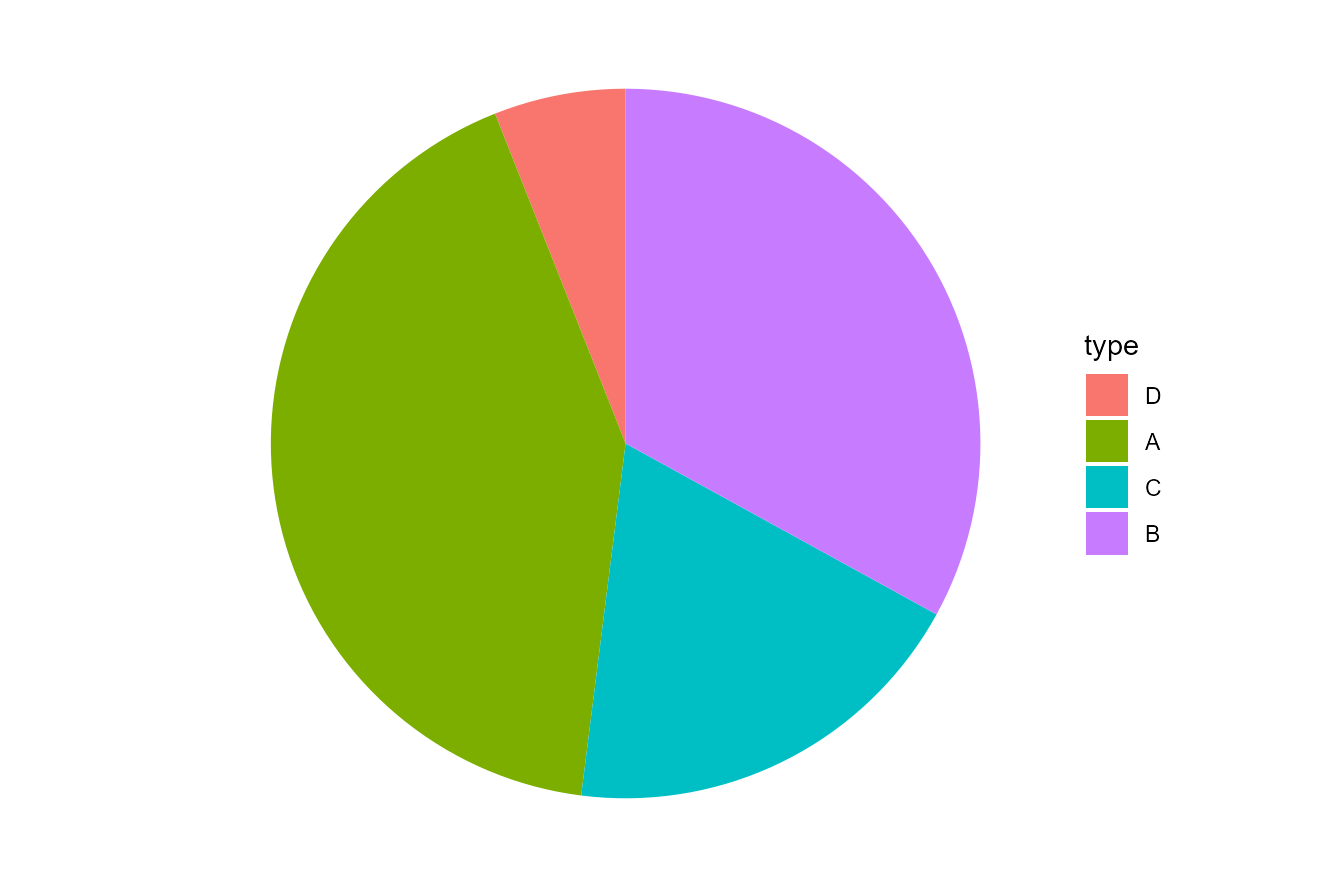
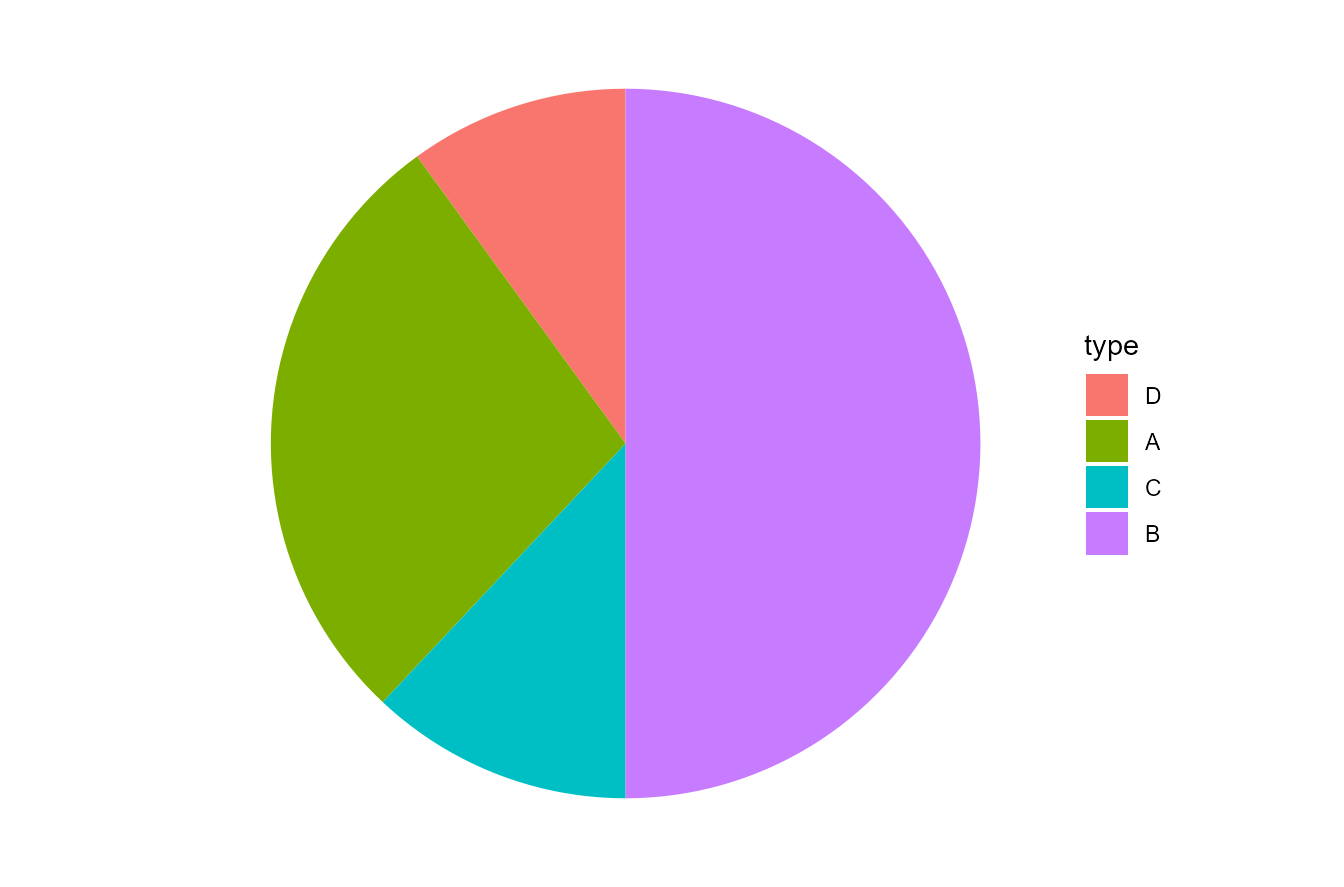
添加时间

Changed region(s): [[0.2812, 0.1218, 0.7188, 0.9132]]

diff --git a/_site/posts/甜甜圈图.html b/_site/posts/甜甜圈图.html
@@ -7,6 +7,7 @@
 <meta name="viewport" content="width=device-width, initial-scale=1.0, user-scalable=yes">
 
 <meta name="author" content="Bowen Qin">
+<meta name="dcterms.date" content="2024-07-05">
 
 <title>Bowen Qin - 如何绘制在甜甜圈图中添加注释</title>
 <style>
@@ -165,6 +166,12 @@ pre > code.sourceCode > span > a:first-child::before { text-decoration: underlin
             </div>
     </div>
       
+      <div>
+      <div class="quarto-title-meta-heading">Published</div>
+      <div class="quarto-title-meta-contents">
+        <p class="date">July 5, 2024</p>
+      </div>
+    </div>
     
       
     </div>
@@ -319,10 +326,10 @@ Figure&nbsp;3: 区间端点的位置
 <pre><code># A tibble: 4 × 5
   type      n  prop cum_prop   mid
   &lt;fct&gt; &lt;int&gt; &lt;dbl&gt;    &lt;dbl&gt; &lt;dbl&gt;
-1 B        33  0.33     0.33 0.165
-2 C        19  0.19     0.52 0.425
-3 A        42  0.42     0.94 0.73 
-4 D         6  0.06     1    0.97 </code></pre>
+1 B        50  0.5      0.5   0.25
+2 C        12  0.12     0.62  0.56
+3 A        28  0.28     0.9   0.76
+4 D        10  0.1      1     0.95</code></pre>
 </div>
 </div>
 <p>最后将注释放在区间的中点即可。</p>
@@ -960,117 +967,118 @@ window.document.addEventListener("DOMContentLoaded", function (event) {
 <div class="sourceCode" id="cb7" data-shortcodes="false"><pre class="sourceCode markdown code-with-copy"><code class="sourceCode markdown"><span id="cb7-1"><a href="#cb7-1" aria-hidden="true" tabindex="-1"></a><span class="co">---</span></span>
 <span id="cb7-2"><a href="#cb7-2" aria-hidden="true" tabindex="-1"></a><span class="an">title:</span><span class="co"> 如何绘制在甜甜圈图中添加注释</span></span>
 <span id="cb7-3"><a href="#cb7-3" aria-hidden="true" tabindex="-1"></a><span class="an">category:</span><span class="co"> "ggplot2"</span></span>
-<span id="cb7-4"><a href="#cb7-4" aria-hidden="true" tabindex="-1"></a><span class="co">---</span></span>
-<span id="cb7-5"><a href="#cb7-5" aria-hidden="true" tabindex="-1"></a></span>
-<span id="cb7-8"><a href="#cb7-8" aria-hidden="true" tabindex="-1"></a><span class="in">```{r}</span></span>
-<span id="cb7-9"><a href="#cb7-9" aria-hidden="true" tabindex="-1"></a><span class="co">#| label: setup</span></span>
-<span id="cb7-10"><a href="#cb7-10" aria-hidden="true" tabindex="-1"></a><span class="co">#| message: false</span></span>
-<span id="cb7-11"><a href="#cb7-11" aria-hidden="true" tabindex="-1"></a></span>
-<span id="cb7-12"><a href="#cb7-12" aria-hidden="true" tabindex="-1"></a><span class="fu">library</span>(tidyverse)</span>
-<span id="cb7-13"><a href="#cb7-13" aria-hidden="true" tabindex="-1"></a><span class="fu">theme_set</span>(hrbrthemes<span class="sc">::</span><span class="fu">theme_ipsum_rc</span>())</span>
-<span id="cb7-14"><a href="#cb7-14" aria-hidden="true" tabindex="-1"></a></span>
-<span id="cb7-15"><a href="#cb7-15" aria-hidden="true" tabindex="-1"></a>dt <span class="ot">&lt;-</span> <span class="fu">tibble</span>(</span>
-<span id="cb7-16"><a href="#cb7-16" aria-hidden="true" tabindex="-1"></a>  <span class="at">type =</span> <span class="fu">sample</span>(<span class="fu">c</span>(<span class="st">"A"</span>, <span class="st">"B"</span>, <span class="st">"C"</span>, <span class="st">"D"</span>), <span class="at">size =</span> <span class="dv">100</span>, <span class="at">replace =</span> <span class="cn">TRUE</span>, <span class="at">prob =</span> <span class="fu">c</span>(<span class="fl">0.3</span>, <span class="fl">0.4</span>, <span class="fl">0.2</span>, <span class="fl">0.1</span>))</span>
-<span id="cb7-17"><a href="#cb7-17" aria-hidden="true" tabindex="-1"></a>  ) <span class="sc">%&gt;%</span> </span>
-<span id="cb7-18"><a href="#cb7-18" aria-hidden="true" tabindex="-1"></a>  <span class="co"># 设置因子的排序</span></span>
-<span id="cb7-19"><a href="#cb7-19" aria-hidden="true" tabindex="-1"></a>  <span class="fu">mutate</span>(<span class="at">type =</span> <span class="fu">factor</span>(type, <span class="fu">c</span>(<span class="st">"D"</span>, <span class="st">"A"</span>, <span class="st">"C"</span>, <span class="st">"B"</span>))) <span class="sc">%&gt;%</span> </span>
-<span id="cb7-20"><a href="#cb7-20" aria-hidden="true" tabindex="-1"></a>  <span class="fu">count</span>(type) <span class="sc">%&gt;%</span> </span>
-<span id="cb7-21"><a href="#cb7-21" aria-hidden="true" tabindex="-1"></a>  <span class="fu">mutate</span>(<span class="at">prop =</span> n <span class="sc">/</span> <span class="fu">sum</span>(n))</span>
-<span id="cb7-22"><a href="#cb7-22" aria-hidden="true" tabindex="-1"></a><span class="in">```</span></span>
-<span id="cb7-23"><a href="#cb7-23" aria-hidden="true" tabindex="-1"></a></span>
-<span id="cb7-24"><a href="#cb7-24" aria-hidden="true" tabindex="-1"></a>甜甜圈图和扇形图常用来刻画各部分在整体中的占比，<span class="in">`ggplot2`</span>的<span class="in">`coord_radial`</span>绘制甜甜圈图非常方便。甜甜圈图中是通过角度来表示大小，而人眼不擅长比较角度的大小。从下面可以清楚的看出这一点：</span>
-<span id="cb7-25"><a href="#cb7-25" aria-hidden="true" tabindex="-1"></a></span>
-<span id="cb7-28"><a href="#cb7-28" aria-hidden="true" tabindex="-1"></a><span class="in">```{r}</span></span>
-<span id="cb7-29"><a href="#cb7-29" aria-hidden="true" tabindex="-1"></a><span class="co">#| layout-ncol: 2</span></span>
-<span id="cb7-30"><a href="#cb7-30" aria-hidden="true" tabindex="-1"></a><span class="co">#| label: fig-对比</span></span>
-<span id="cb7-31"><a href="#cb7-31" aria-hidden="true" tabindex="-1"></a><span class="co">#| fig-cap: 甜甜圈图 vs 条形图</span></span>
-<span id="cb7-32"><a href="#cb7-32" aria-hidden="true" tabindex="-1"></a><span class="co">#| fig-subcap: </span></span>
-<span id="cb7-33"><a href="#cb7-33" aria-hidden="true" tabindex="-1"></a><span class="co">#|   - 条形图</span></span>
-<span id="cb7-34"><a href="#cb7-34" aria-hidden="true" tabindex="-1"></a><span class="co">#|   - 甜甜圈图</span></span>
-<span id="cb7-35"><a href="#cb7-35" aria-hidden="true" tabindex="-1"></a>dt <span class="sc">%&gt;%</span> </span>
-<span id="cb7-36"><a href="#cb7-36" aria-hidden="true" tabindex="-1"></a>  <span class="fu">ggplot</span>(<span class="fu">aes</span>(<span class="at">x =</span> type, <span class="at">y =</span> prop, <span class="at">fill =</span> type)) <span class="sc">+</span></span>
-<span id="cb7-37"><a href="#cb7-37" aria-hidden="true" tabindex="-1"></a>  <span class="fu">geom_col</span>(<span class="at">show.legend =</span> <span class="cn">FALSE</span>)</span>
-<span id="cb7-38"><a href="#cb7-38" aria-hidden="true" tabindex="-1"></a></span>
-<span id="cb7-39"><a href="#cb7-39" aria-hidden="true" tabindex="-1"></a>dt <span class="sc">%&gt;%</span> </span>
-<span id="cb7-40"><a href="#cb7-40" aria-hidden="true" tabindex="-1"></a>  <span class="fu">ggplot</span>(<span class="fu">aes</span>(<span class="at">y =</span> <span class="fu">factor</span>(<span class="dv">1</span>), <span class="at">x =</span> prop, <span class="at">fill =</span> type)) <span class="sc">+</span></span>
-<span id="cb7-41"><a href="#cb7-41" aria-hidden="true" tabindex="-1"></a>  <span class="fu">geom_col</span>() <span class="sc">+</span></span>
-<span id="cb7-42"><a href="#cb7-42" aria-hidden="true" tabindex="-1"></a>  <span class="fu">coord_radial</span>(<span class="at">expand =</span> <span class="cn">FALSE</span>, <span class="at">inner.radius =</span> <span class="fl">0.4</span>) <span class="sc">+</span></span>
-<span id="cb7-43"><a href="#cb7-43" aria-hidden="true" tabindex="-1"></a>  <span class="fu">theme_void</span>()</span>
-<span id="cb7-44"><a href="#cb7-44" aria-hidden="true" tabindex="-1"></a><span class="in">```</span></span>
-<span id="cb7-45"><a href="#cb7-45" aria-hidden="true" tabindex="-1"></a></span>
-<span id="cb7-46"><a href="#cb7-46" aria-hidden="true" tabindex="-1"></a>@fig-对比-1 中可以从柱子的高度中看出A所占的比重大于B，@fig-对比-2 中则很难看出A和B谁占的比重大。</span>
-<span id="cb7-47"><a href="#cb7-47" aria-hidden="true" tabindex="-1"></a></span>
-<span id="cb7-48"><a href="#cb7-48" aria-hidden="true" tabindex="-1"></a>所以甜甜圈图和扇形图需要加上注释，表明各部分的占比，加注释需要提供注释的位置，一般大家都希望把注释放在扇形的中间，怎么确定每个扇形中间的位置呢？先了解以下<span class="in">`coord_radial()`</span>的原理。</span>
-<span id="cb7-49"><a href="#cb7-49" aria-hidden="true" tabindex="-1"></a></span>
-<span id="cb7-52"><a href="#cb7-52" aria-hidden="true" tabindex="-1"></a><span class="in">```{r}</span></span>
-<span id="cb7-53"><a href="#cb7-53" aria-hidden="true" tabindex="-1"></a><span class="co">#| label: fig-coord_radial的原理</span></span>
-<span id="cb7-54"><a href="#cb7-54" aria-hidden="true" tabindex="-1"></a><span class="co">#| layout-ncol: 2</span></span>
-<span id="cb7-55"><a href="#cb7-55" aria-hidden="true" tabindex="-1"></a><span class="co">#| fig-cap: coord_radial的原理</span></span>
-<span id="cb7-56"><a href="#cb7-56" aria-hidden="true" tabindex="-1"></a><span class="co">#| fig-subcap:</span></span>
-<span id="cb7-57"><a href="#cb7-57" aria-hidden="true" tabindex="-1"></a><span class="co">#| - 普通柱状图</span></span>
-<span id="cb7-58"><a href="#cb7-58" aria-hidden="true" tabindex="-1"></a><span class="co">#| - coord_radial</span></span>
-<span id="cb7-59"><a href="#cb7-59" aria-hidden="true" tabindex="-1"></a>p <span class="ot">&lt;-</span> dt <span class="sc">%&gt;%</span> </span>
-<span id="cb7-60"><a href="#cb7-60" aria-hidden="true" tabindex="-1"></a>  <span class="fu">ggplot</span>(<span class="fu">aes</span>(<span class="at">y =</span> <span class="fu">factor</span>(<span class="dv">1</span>), <span class="at">x =</span> prop, <span class="at">fill =</span> type)) <span class="sc">+</span></span>
-<span id="cb7-61"><a href="#cb7-61" aria-hidden="true" tabindex="-1"></a>  <span class="fu">geom_col</span>() <span class="sc">+</span></span>
-<span id="cb7-62"><a href="#cb7-62" aria-hidden="true" tabindex="-1"></a>  <span class="fu">theme_void</span>()</span>
-<span id="cb7-63"><a href="#cb7-63" aria-hidden="true" tabindex="-1"></a></span>
-<span id="cb7-64"><a href="#cb7-64" aria-hidden="true" tabindex="-1"></a>p</span>
-<span id="cb7-65"><a href="#cb7-65" aria-hidden="true" tabindex="-1"></a>p <span class="sc">+</span> </span>
-<span id="cb7-66"><a href="#cb7-66" aria-hidden="true" tabindex="-1"></a>  <span class="fu">coord_radial</span>(<span class="at">theta =</span> <span class="st">"x"</span>,</span>
-<span id="cb7-67"><a href="#cb7-67" aria-hidden="true" tabindex="-1"></a>               <span class="at">expand =</span> <span class="cn">FALSE</span>)</span>
-<span id="cb7-68"><a href="#cb7-68" aria-hidden="true" tabindex="-1"></a><span class="in">```</span></span>
-<span id="cb7-69"><a href="#cb7-69" aria-hidden="true" tabindex="-1"></a></span>
-<span id="cb7-70"><a href="#cb7-70" aria-hidden="true" tabindex="-1"></a><span class="in">`coord_radial`</span>就是将某条坐标轴卷起来，将 @fig-coord_radial的原理-1 沿着x轴卷起来就得到了 @fig-coord_radial的原理-2 。</span>
-<span id="cb7-71"><a href="#cb7-71" aria-hidden="true" tabindex="-1"></a></span>
-<span id="cb7-72"><a href="#cb7-72" aria-hidden="true" tabindex="-1"></a>所以要确定扇形中间的位置，只需要确定 @fig-coord_radial的原理-1 中每个颜色区间的中点，而颜色区间的中点等于该颜色区间两个端点相加除以二，所以我们只需要确定每个颜色区间端点的位置。</span>
-<span id="cb7-73"><a href="#cb7-73" aria-hidden="true" tabindex="-1"></a></span>
-<span id="cb7-76"><a href="#cb7-76" aria-hidden="true" tabindex="-1"></a><span class="in">```{r}</span></span>
-<span id="cb7-77"><a href="#cb7-77" aria-hidden="true" tabindex="-1"></a><span class="co">#| echo: false</span></span>
-<span id="cb7-78"><a href="#cb7-78" aria-hidden="true" tabindex="-1"></a><span class="co">#| label: fig-区间端点的位置</span></span>
-<span id="cb7-79"><a href="#cb7-79" aria-hidden="true" tabindex="-1"></a><span class="co">#| fig-cap: 区间端点的位置</span></span>
-<span id="cb7-80"><a href="#cb7-80" aria-hidden="true" tabindex="-1"></a>ddd <span class="ot">&lt;-</span> dt <span class="sc">%&gt;%</span> </span>
-<span id="cb7-81"><a href="#cb7-81" aria-hidden="true" tabindex="-1"></a>  <span class="fu">arrange</span>(<span class="fu">desc</span>(type)) <span class="sc">%&gt;%</span> </span>
-<span id="cb7-82"><a href="#cb7-82" aria-hidden="true" tabindex="-1"></a>  <span class="fu">mutate</span>(<span class="at">cum_prop =</span> <span class="fu">cumsum</span>(prop),</span>
-<span id="cb7-83"><a href="#cb7-83" aria-hidden="true" tabindex="-1"></a>         <span class="at">pos =</span> slider<span class="sc">::</span><span class="fu">slide_dbl</span>(cum_prop, mean, <span class="at">.before =</span> <span class="dv">1</span>, <span class="at">.complete =</span> <span class="cn">TRUE</span>),</span>
-<span id="cb7-84"><a href="#cb7-84" aria-hidden="true" tabindex="-1"></a>         <span class="at">pos =</span> <span class="fu">if_else</span>(<span class="fu">is.na</span>(pos), cum_prop<span class="sc">/</span><span class="dv">2</span>, pos))</span>
-<span id="cb7-85"><a href="#cb7-85" aria-hidden="true" tabindex="-1"></a></span>
-<span id="cb7-86"><a href="#cb7-86" aria-hidden="true" tabindex="-1"></a>ddd <span class="sc">%&gt;%</span> </span>
-<span id="cb7-87"><a href="#cb7-87" aria-hidden="true" tabindex="-1"></a>  <span class="fu">ggplot</span>(<span class="fu">aes</span>(<span class="at">y =</span> <span class="fu">factor</span>(<span class="dv">1</span>), <span class="at">x =</span> prop, <span class="at">fill =</span> type)) <span class="sc">+</span></span>
-<span id="cb7-88"><a href="#cb7-88" aria-hidden="true" tabindex="-1"></a>  <span class="fu">geom_col</span>() <span class="sc">+</span></span>
-<span id="cb7-89"><a href="#cb7-89" aria-hidden="true" tabindex="-1"></a>  <span class="fu">geom_vline</span>(<span class="fu">aes</span>(<span class="at">xintercept =</span> cum_prop), <span class="at">lty =</span> <span class="dv">2</span>, <span class="at">linewidth =</span> <span class="dv">1</span>) <span class="sc">+</span></span>
-<span id="cb7-90"><a href="#cb7-90" aria-hidden="true" tabindex="-1"></a>  <span class="fu">geom_vline</span>(<span class="at">xintercept =</span> <span class="dv">0</span>, <span class="at">lty =</span> <span class="dv">2</span>, <span class="at">linewidth =</span> <span class="dv">1</span>) <span class="sc">+</span></span>
-<span id="cb7-91"><a href="#cb7-91" aria-hidden="true" tabindex="-1"></a>  <span class="fu">geom_text</span>(<span class="fu">aes</span>(<span class="at">label =</span> prop, <span class="at">x =</span> pos)) <span class="sc">+</span></span>
-<span id="cb7-92"><a href="#cb7-92" aria-hidden="true" tabindex="-1"></a>  <span class="fu">scale_x_continuous</span>(<span class="at">breaks =</span> <span class="fu">c</span>(<span class="dv">0</span>, ddd<span class="sc">$</span>cum_prop))</span>
-<span id="cb7-93"><a href="#cb7-93" aria-hidden="true" tabindex="-1"></a><span class="in">```</span></span>
-<span id="cb7-94"><a href="#cb7-94" aria-hidden="true" tabindex="-1"></a></span>
-<span id="cb7-95"><a href="#cb7-95" aria-hidden="true" tabindex="-1"></a>区间的端点由每种因子所占的比重依次相加得到，而注释的横坐标就是区间的中点。</span>
-<span id="cb7-96"><a href="#cb7-96" aria-hidden="true" tabindex="-1"></a></span>
-<span id="cb7-99"><a href="#cb7-99" aria-hidden="true" tabindex="-1"></a><span class="in">```{r}</span></span>
-<span id="cb7-100"><a href="#cb7-100" aria-hidden="true" tabindex="-1"></a>dt_plot <span class="ot">&lt;-</span> dt <span class="sc">%&gt;%</span> </span>
-<span id="cb7-101"><a href="#cb7-101" aria-hidden="true" tabindex="-1"></a>  <span class="co"># 先按因子变量将数据倒序排列，因为ggplot默认倒序</span></span>
-<span id="cb7-102"><a href="#cb7-102" aria-hidden="true" tabindex="-1"></a>  <span class="fu">arrange</span>(<span class="fu">desc</span>(type)) <span class="sc">%&gt;%</span> </span>
-<span id="cb7-103"><a href="#cb7-103" aria-hidden="true" tabindex="-1"></a>  <span class="fu">mutate</span>(</span>
-<span id="cb7-104"><a href="#cb7-104" aria-hidden="true" tabindex="-1"></a>    <span class="co"># 将占比依次相加得到区间端点</span></span>
-<span id="cb7-105"><a href="#cb7-105" aria-hidden="true" tabindex="-1"></a>    <span class="at">cum_prop =</span> <span class="fu">cumsum</span>(prop),</span>
-<span id="cb7-106"><a href="#cb7-106" aria-hidden="true" tabindex="-1"></a>    <span class="co"># 计算区间的中点</span></span>
-<span id="cb7-107"><a href="#cb7-107" aria-hidden="true" tabindex="-1"></a>    <span class="at">mid =</span> slider<span class="sc">::</span><span class="fu">slide_dbl</span>(cum_prop, mean, <span class="at">.before =</span> <span class="dv">1</span>, <span class="at">.complete =</span> <span class="cn">TRUE</span>),</span>
-<span id="cb7-108"><a href="#cb7-108" aria-hidden="true" tabindex="-1"></a>    <span class="at">mid =</span> <span class="fu">if_else</span>(<span class="fu">is.na</span>(mid), cum_prop<span class="sc">/</span><span class="dv">2</span>, mid)</span>
-<span id="cb7-109"><a href="#cb7-109" aria-hidden="true" tabindex="-1"></a>  )</span>
-<span id="cb7-110"><a href="#cb7-110" aria-hidden="true" tabindex="-1"></a>dt_plot</span>
-<span id="cb7-111"><a href="#cb7-111" aria-hidden="true" tabindex="-1"></a><span class="in">```</span></span>
-<span id="cb7-112"><a href="#cb7-112" aria-hidden="true" tabindex="-1"></a></span>
-<span id="cb7-113"><a href="#cb7-113" aria-hidden="true" tabindex="-1"></a>最后将注释放在区间的中点即可。</span>
-<span id="cb7-114"><a href="#cb7-114" aria-hidden="true" tabindex="-1"></a></span>
-<span id="cb7-117"><a href="#cb7-117" aria-hidden="true" tabindex="-1"></a><span class="in">```{r}</span></span>
-<span id="cb7-118"><a href="#cb7-118" aria-hidden="true" tabindex="-1"></a>dt_plot <span class="sc">%&gt;%</span> </span>
-<span id="cb7-119"><a href="#cb7-119" aria-hidden="true" tabindex="-1"></a>  <span class="fu">ggplot</span>(<span class="fu">aes</span>(<span class="at">y =</span> <span class="fu">factor</span>(<span class="dv">1</span>), <span class="at">x =</span> prop, <span class="at">fill =</span> type)) <span class="sc">+</span></span>
-<span id="cb7-120"><a href="#cb7-120" aria-hidden="true" tabindex="-1"></a>  <span class="fu">geom_col</span>(<span class="at">show.legend =</span> <span class="cn">FALSE</span>) <span class="sc">+</span></span>
-<span id="cb7-121"><a href="#cb7-121" aria-hidden="true" tabindex="-1"></a>  <span class="fu">geom_text</span>(<span class="fu">aes</span>(<span class="at">label =</span> prop, <span class="at">x =</span> mid, <span class="at">y =</span> <span class="dv">1</span>), <span class="at">fontface =</span> <span class="st">"bold"</span>) <span class="sc">+</span></span>
-<span id="cb7-122"><a href="#cb7-122" aria-hidden="true" tabindex="-1"></a>  <span class="fu">geom_text</span>(<span class="fu">aes</span>(<span class="at">x =</span> mid, <span class="at">y =</span> <span class="fl">1.6</span>, <span class="at">label =</span> type)) <span class="sc">+</span></span>
-<span id="cb7-123"><a href="#cb7-123" aria-hidden="true" tabindex="-1"></a>  <span class="fu">scale_x_continuous</span>(<span class="at">breaks =</span> <span class="fu">c</span>(<span class="dv">0</span>, ddd<span class="sc">$</span>cum_prop)) <span class="sc">+</span></span>
-<span id="cb7-124"><a href="#cb7-124" aria-hidden="true" tabindex="-1"></a>  <span class="fu">coord_radial</span>(<span class="at">expand =</span> <span class="cn">FALSE</span>, <span class="at">inner.radius =</span> <span class="fl">0.4</span>) <span class="sc">+</span></span>
-<span id="cb7-125"><a href="#cb7-125" aria-hidden="true" tabindex="-1"></a>  <span class="fu">theme_void</span>()</span>
-<span id="cb7-126"><a href="#cb7-126" aria-hidden="true" tabindex="-1"></a><span class="in">```</span></span>
+<span id="cb7-4"><a href="#cb7-4" aria-hidden="true" tabindex="-1"></a><span class="an">date:</span><span class="co"> "2024-07-05"</span></span>
+<span id="cb7-5"><a href="#cb7-5" aria-hidden="true" tabindex="-1"></a><span class="co">---</span></span>
+<span id="cb7-6"><a href="#cb7-6" aria-hidden="true" tabindex="-1"></a></span>
+<span id="cb7-9"><a href="#cb7-9" aria-hidden="true" tabindex="-1"></a><span class="in">```{r}</span></span>
+<span id="cb7-10"><a href="#cb7-10" aria-hidden="true" tabindex="-1"></a><span class="co">#| label: setup</span></span>
+<span id="cb7-11"><a href="#cb7-11" aria-hidden="true" tabindex="-1"></a><span class="co">#| message: false</span></span>
+<span id="cb7-12"><a href="#cb7-12" aria-hidden="true" tabindex="-1"></a></span>
+<span id="cb7-13"><a href="#cb7-13" aria-hidden="true" tabindex="-1"></a><span class="fu">library</span>(tidyverse)</span>
+<span id="cb7-14"><a href="#cb7-14" aria-hidden="true" tabindex="-1"></a><span class="fu">theme_set</span>(hrbrthemes<span class="sc">::</span><span class="fu">theme_ipsum_rc</span>())</span>
+<span id="cb7-15"><a href="#cb7-15" aria-hidden="true" tabindex="-1"></a></span>
+<span id="cb7-16"><a href="#cb7-16" aria-hidden="true" tabindex="-1"></a>dt <span class="ot">&lt;-</span> <span class="fu">tibble</span>(</span>
+<span id="cb7-17"><a href="#cb7-17" aria-hidden="true" tabindex="-1"></a>  <span class="at">type =</span> <span class="fu">sample</span>(<span class="fu">c</span>(<span class="st">"A"</span>, <span class="st">"B"</span>, <span class="st">"C"</span>, <span class="st">"D"</span>), <span class="at">size =</span> <span class="dv">100</span>, <span class="at">replace =</span> <span class="cn">TRUE</span>, <span class="at">prob =</span> <span class="fu">c</span>(<span class="fl">0.3</span>, <span class="fl">0.4</span>, <span class="fl">0.2</span>, <span class="fl">0.1</span>))</span>
+<span id="cb7-18"><a href="#cb7-18" aria-hidden="true" tabindex="-1"></a>  ) <span class="sc">%&gt;%</span> </span>
+<span id="cb7-19"><a href="#cb7-19" aria-hidden="true" tabindex="-1"></a>  <span class="co"># 设置因子的排序</span></span>
+<span id="cb7-20"><a href="#cb7-20" aria-hidden="true" tabindex="-1"></a>  <span class="fu">mutate</span>(<span class="at">type =</span> <span class="fu">factor</span>(type, <span class="fu">c</span>(<span class="st">"D"</span>, <span class="st">"A"</span>, <span class="st">"C"</span>, <span class="st">"B"</span>))) <span class="sc">%&gt;%</span> </span>
+<span id="cb7-21"><a href="#cb7-21" aria-hidden="true" tabindex="-1"></a>  <span class="fu">count</span>(type) <span class="sc">%&gt;%</span> </span>
+<span id="cb7-22"><a href="#cb7-22" aria-hidden="true" tabindex="-1"></a>  <span class="fu">mutate</span>(<span class="at">prop =</span> n <span class="sc">/</span> <span class="fu">sum</span>(n))</span>
+<span id="cb7-23"><a href="#cb7-23" aria-hidden="true" tabindex="-1"></a><span class="in">```</span></span>
+<span id="cb7-24"><a href="#cb7-24" aria-hidden="true" tabindex="-1"></a></span>
+<span id="cb7-25"><a href="#cb7-25" aria-hidden="true" tabindex="-1"></a>甜甜圈图和扇形图常用来刻画各部分在整体中的占比，<span class="in">`ggplot2`</span>的<span class="in">`coord_radial`</span>绘制甜甜圈图非常方便。甜甜圈图中是通过角度来表示大小，而人眼不擅长比较角度的大小。从下面可以清楚的看出这一点：</span>
+<span id="cb7-26"><a href="#cb7-26" aria-hidden="true" tabindex="-1"></a></span>
+<span id="cb7-29"><a href="#cb7-29" aria-hidden="true" tabindex="-1"></a><span class="in">```{r}</span></span>
+<span id="cb7-30"><a href="#cb7-30" aria-hidden="true" tabindex="-1"></a><span class="co">#| layout-ncol: 2</span></span>
+<span id="cb7-31"><a href="#cb7-31" aria-hidden="true" tabindex="-1"></a><span class="co">#| label: fig-对比</span></span>
+<span id="cb7-32"><a href="#cb7-32" aria-hidden="true" tabindex="-1"></a><span class="co">#| fig-cap: 甜甜圈图 vs 条形图</span></span>
+<span id="cb7-33"><a href="#cb7-33" aria-hidden="true" tabindex="-1"></a><span class="co">#| fig-subcap: </span></span>
+<span id="cb7-34"><a href="#cb7-34" aria-hidden="true" tabindex="-1"></a><span class="co">#|   - 条形图</span></span>
+<span id="cb7-35"><a href="#cb7-35" aria-hidden="true" tabindex="-1"></a><span class="co">#|   - 甜甜圈图</span></span>
+<span id="cb7-36"><a href="#cb7-36" aria-hidden="true" tabindex="-1"></a>dt <span class="sc">%&gt;%</span> </span>
+<span id="cb7-37"><a href="#cb7-37" aria-hidden="true" tabindex="-1"></a>  <span class="fu">ggplot</span>(<span class="fu">aes</span>(<span class="at">x =</span> type, <span class="at">y =</span> prop, <span class="at">fill =</span> type)) <span class="sc">+</span></span>
+<span id="cb7-38"><a href="#cb7-38" aria-hidden="true" tabindex="-1"></a>  <span class="fu">geom_col</span>(<span class="at">show.legend =</span> <span class="cn">FALSE</span>)</span>
+<span id="cb7-39"><a href="#cb7-39" aria-hidden="true" tabindex="-1"></a></span>
+<span id="cb7-40"><a href="#cb7-40" aria-hidden="true" tabindex="-1"></a>dt <span class="sc">%&gt;%</span> </span>
+<span id="cb7-41"><a href="#cb7-41" aria-hidden="true" tabindex="-1"></a>  <span class="fu">ggplot</span>(<span class="fu">aes</span>(<span class="at">y =</span> <span class="fu">factor</span>(<span class="dv">1</span>), <span class="at">x =</span> prop, <span class="at">fill =</span> type)) <span class="sc">+</span></span>
+<span id="cb7-42"><a href="#cb7-42" aria-hidden="true" tabindex="-1"></a>  <span class="fu">geom_col</span>() <span class="sc">+</span></span>
+<span id="cb7-43"><a href="#cb7-43" aria-hidden="true" tabindex="-1"></a>  <span class="fu">coord_radial</span>(<span class="at">expand =</span> <span class="cn">FALSE</span>, <span class="at">inner.radius =</span> <span class="fl">0.4</span>) <span class="sc">+</span></span>
+<span id="cb7-44"><a href="#cb7-44" aria-hidden="true" tabindex="-1"></a>  <span class="fu">theme_void</span>()</span>
+<span id="cb7-45"><a href="#cb7-45" aria-hidden="true" tabindex="-1"></a><span class="in">```</span></span>
+<span id="cb7-46"><a href="#cb7-46" aria-hidden="true" tabindex="-1"></a></span>
+<span id="cb7-47"><a href="#cb7-47" aria-hidden="true" tabindex="-1"></a>@fig-对比-1 中可以从柱子的高度中看出A所占的比重大于B，@fig-对比-2 中则很难看出A和B谁占的比重大。</span>
+<span id="cb7-48"><a href="#cb7-48" aria-hidden="true" tabindex="-1"></a></span>
+<span id="cb7-49"><a href="#cb7-49" aria-hidden="true" tabindex="-1"></a>所以甜甜圈图和扇形图需要加上注释，表明各部分的占比，加注释需要提供注释的位置，一般大家都希望把注释放在扇形的中间，怎么确定每个扇形中间的位置呢？先了解以下<span class="in">`coord_radial()`</span>的原理。</span>
+<span id="cb7-50"><a href="#cb7-50" aria-hidden="true" tabindex="-1"></a></span>
+<span id="cb7-53"><a href="#cb7-53" aria-hidden="true" tabindex="-1"></a><span class="in">```{r}</span></span>
+<span id="cb7-54"><a href="#cb7-54" aria-hidden="true" tabindex="-1"></a><span class="co">#| label: fig-coord_radial的原理</span></span>
+<span id="cb7-55"><a href="#cb7-55" aria-hidden="true" tabindex="-1"></a><span class="co">#| layout-ncol: 2</span></span>
+<span id="cb7-56"><a href="#cb7-56" aria-hidden="true" tabindex="-1"></a><span class="co">#| fig-cap: coord_radial的原理</span></span>
+<span id="cb7-57"><a href="#cb7-57" aria-hidden="true" tabindex="-1"></a><span class="co">#| fig-subcap:</span></span>
+<span id="cb7-58"><a href="#cb7-58" aria-hidden="true" tabindex="-1"></a><span class="co">#| - 普通柱状图</span></span>
+<span id="cb7-59"><a href="#cb7-59" aria-hidden="true" tabindex="-1"></a><span class="co">#| - coord_radial</span></span>
+<span id="cb7-60"><a href="#cb7-60" aria-hidden="true" tabindex="-1"></a>p <span class="ot">&lt;-</span> dt <span class="sc">%&gt;%</span> </span>
+<span id="cb7-61"><a href="#cb7-61" aria-hidden="true" tabindex="-1"></a>  <span class="fu">ggplot</span>(<span class="fu">aes</span>(<span class="at">y =</span> <span class="fu">factor</span>(<span class="dv">1</span>), <span class="at">x =</span> prop, <span class="at">fill =</span> type)) <span class="sc">+</span></span>
+<span id="cb7-62"><a href="#cb7-62" aria-hidden="true" tabindex="-1"></a>  <span class="fu">geom_col</span>() <span class="sc">+</span></span>
+<span id="cb7-63"><a href="#cb7-63" aria-hidden="true" tabindex="-1"></a>  <span class="fu">theme_void</span>()</span>
+<span id="cb7-64"><a href="#cb7-64" aria-hidden="true" tabindex="-1"></a></span>
+<span id="cb7-65"><a href="#cb7-65" aria-hidden="true" tabindex="-1"></a>p</span>
+<span id="cb7-66"><a href="#cb7-66" aria-hidden="true" tabindex="-1"></a>p <span class="sc">+</span> </span>
+<span id="cb7-67"><a href="#cb7-67" aria-hidden="true" tabindex="-1"></a>  <span class="fu">coord_radial</span>(<span class="at">theta =</span> <span class="st">"x"</span>,</span>
+<span id="cb7-68"><a href="#cb7-68" aria-hidden="true" tabindex="-1"></a>               <span class="at">expand =</span> <span class="cn">FALSE</span>)</span>
+<span id="cb7-69"><a href="#cb7-69" aria-hidden="true" tabindex="-1"></a><span class="in">```</span></span>
+<span id="cb7-70"><a href="#cb7-70" aria-hidden="true" tabindex="-1"></a></span>
+<span id="cb7-71"><a href="#cb7-71" aria-hidden="true" tabindex="-1"></a><span class="in">`coord_radial`</span>就是将某条坐标轴卷起来，将 @fig-coord_radial的原理-1 沿着x轴卷起来就得到了 @fig-coord_radial的原理-2 。</span>
+<span id="cb7-72"><a href="#cb7-72" aria-hidden="true" tabindex="-1"></a></span>
+<span id="cb7-73"><a href="#cb7-73" aria-hidden="true" tabindex="-1"></a>所以要确定扇形中间的位置，只需要确定 @fig-coord_radial的原理-1 中每个颜色区间的中点，而颜色区间的中点等于该颜色区间两个端点相加除以二，所以我们只需要确定每个颜色区间端点的位置。</span>
+<span id="cb7-74"><a href="#cb7-74" aria-hidden="true" tabindex="-1"></a></span>
+<span id="cb7-77"><a href="#cb7-77" aria-hidden="true" tabindex="-1"></a><span class="in">```{r}</span></span>
+<span id="cb7-78"><a href="#cb7-78" aria-hidden="true" tabindex="-1"></a><span class="co">#| echo: false</span></span>
+<span id="cb7-79"><a href="#cb7-79" aria-hidden="true" tabindex="-1"></a><span class="co">#| label: fig-区间端点的位置</span></span>
+<span id="cb7-80"><a href="#cb7-80" aria-hidden="true" tabindex="-1"></a><span class="co">#| fig-cap: 区间端点的位置</span></span>
+<span id="cb7-81"><a href="#cb7-81" aria-hidden="true" tabindex="-1"></a>ddd <span class="ot">&lt;-</span> dt <span class="sc">%&gt;%</span> </span>
+<span id="cb7-82"><a href="#cb7-82" aria-hidden="true" tabindex="-1"></a>  <span class="fu">arrange</span>(<span class="fu">desc</span>(type)) <span class="sc">%&gt;%</span> </span>
+<span id="cb7-83"><a href="#cb7-83" aria-hidden="true" tabindex="-1"></a>  <span class="fu">mutate</span>(<span class="at">cum_prop =</span> <span class="fu">cumsum</span>(prop),</span>
+<span id="cb7-84"><a href="#cb7-84" aria-hidden="true" tabindex="-1"></a>         <span class="at">pos =</span> slider<span class="sc">::</span><span class="fu">slide_dbl</span>(cum_prop, mean, <span class="at">.before =</span> <span class="dv">1</span>, <span class="at">.complete =</span> <span class="cn">TRUE</span>),</span>
+<span id="cb7-85"><a href="#cb7-85" aria-hidden="true" tabindex="-1"></a>         <span class="at">pos =</span> <span class="fu">if_else</span>(<span class="fu">is.na</span>(pos), cum_prop<span class="sc">/</span><span class="dv">2</span>, pos))</span>
+<span id="cb7-86"><a href="#cb7-86" aria-hidden="true" tabindex="-1"></a></span>
+<span id="cb7-87"><a href="#cb7-87" aria-hidden="true" tabindex="-1"></a>ddd <span class="sc">%&gt;%</span> </span>
+<span id="cb7-88"><a href="#cb7-88" aria-hidden="true" tabindex="-1"></a>  <span class="fu">ggplot</span>(<span class="fu">aes</span>(<span class="at">y =</span> <span class="fu">factor</span>(<span class="dv">1</span>), <span class="at">x =</span> prop, <span class="at">fill =</span> type)) <span class="sc">+</span></span>
+<span id="cb7-89"><a href="#cb7-89" aria-hidden="true" tabindex="-1"></a>  <span class="fu">geom_col</span>() <span class="sc">+</span></span>
+<span id="cb7-90"><a href="#cb7-90" aria-hidden="true" tabindex="-1"></a>  <span class="fu">geom_vline</span>(<span class="fu">aes</span>(<span class="at">xintercept =</span> cum_prop), <span class="at">lty =</span> <span class="dv">2</span>, <span class="at">linewidth =</span> <span class="dv">1</span>) <span class="sc">+</span></span>
+<span id="cb7-91"><a href="#cb7-91" aria-hidden="true" tabindex="-1"></a>  <span class="fu">geom_vline</span>(<span class="at">xintercept =</span> <span class="dv">0</span>, <span class="at">lty =</span> <span class="dv">2</span>, <span class="at">linewidth =</span> <span class="dv">1</span>) <span class="sc">+</span></span>
+<span id="cb7-92"><a href="#cb7-92" aria-hidden="true" tabindex="-1"></a>  <span class="fu">geom_text</span>(<span class="fu">aes</span>(<span class="at">label =</span> prop, <span class="at">x =</span> pos)) <span class="sc">+</span></span>
+<span id="cb7-93"><a href="#cb7-93" aria-hidden="true" tabindex="-1"></a>  <span class="fu">scale_x_continuous</span>(<span class="at">breaks =</span> <span class="fu">c</span>(<span class="dv">0</span>, ddd<span class="sc">$</span>cum_prop))</span>
+<span id="cb7-94"><a href="#cb7-94" aria-hidden="true" tabindex="-1"></a><span class="in">```</span></span>
+<span id="cb7-95"><a href="#cb7-95" aria-hidden="true" tabindex="-1"></a></span>
+<span id="cb7-96"><a href="#cb7-96" aria-hidden="true" tabindex="-1"></a>区间的端点由每种因子所占的比重依次相加得到，而注释的横坐标就是区间的中点。</span>
+<span id="cb7-97"><a href="#cb7-97" aria-hidden="true" tabindex="-1"></a></span>
+<span id="cb7-100"><a href="#cb7-100" aria-hidden="true" tabindex="-1"></a><span class="in">```{r}</span></span>
+<span id="cb7-101"><a href="#cb7-101" aria-hidden="true" tabindex="-1"></a>dt_plot <span class="ot">&lt;-</span> dt <span class="sc">%&gt;%</span> </span>
+<span id="cb7-102"><a href="#cb7-102" aria-hidden="true" tabindex="-1"></a>  <span class="co"># 先按因子变量将数据倒序排列，因为ggplot默认倒序</span></span>
+<span id="cb7-103"><a href="#cb7-103" aria-hidden="true" tabindex="-1"></a>  <span class="fu">arrange</span>(<span class="fu">desc</span>(type)) <span class="sc">%&gt;%</span> </span>
+<span id="cb7-104"><a href="#cb7-104" aria-hidden="true" tabindex="-1"></a>  <span class="fu">mutate</span>(</span>
+<span id="cb7-105"><a href="#cb7-105" aria-hidden="true" tabindex="-1"></a>    <span class="co"># 将占比依次相加得到区间端点</span></span>
+<span id="cb7-106"><a href="#cb7-106" aria-hidden="true" tabindex="-1"></a>    <span class="at">cum_prop =</span> <span class="fu">cumsum</span>(prop),</span>
+<span id="cb7-107"><a href="#cb7-107" aria-hidden="true" tabindex="-1"></a>    <span class="co"># 计算区间的中点</span></span>
+<span id="cb7-108"><a href="#cb7-108" aria-hidden="true" tabindex="-1"></a>    <span class="at">mid =</span> slider<span class="sc">::</span><span class="fu">slide_dbl</span>(cum_prop, mean, <span class="at">.before =</span> <span class="dv">1</span>, <span class="at">.complete =</span> <span class="cn">TRUE</span>),</span>
+<span id="cb7-109"><a href="#cb7-109" aria-hidden="true" tabindex="-1"></a>    <span class="at">mid =</span> <span class="fu">if_else</span>(<span class="fu">is.na</span>(mid), cum_prop<span class="sc">/</span><span class="dv">2</span>, mid)</span>
+<span id="cb7-110"><a href="#cb7-110" aria-hidden="true" tabindex="-1"></a>  )</span>
+<span id="cb7-111"><a href="#cb7-111" aria-hidden="true" tabindex="-1"></a>dt_plot</span>
+<span id="cb7-112"><a href="#cb7-112" aria-hidden="true" tabindex="-1"></a><span class="in">```</span></span>
+<span id="cb7-113"><a href="#cb7-113" aria-hidden="true" tabindex="-1"></a></span>
+<span id="cb7-114"><a href="#cb7-114" aria-hidden="true" tabindex="-1"></a>最后将注释放在区间的中点即可。</span>
+<span id="cb7-115"><a href="#cb7-115" aria-hidden="true" tabindex="-1"></a></span>
+<span id="cb7-118"><a href="#cb7-118" aria-hidden="true" tabindex="-1"></a><span class="in">```{r}</span></span>
+<span id="cb7-119"><a href="#cb7-119" aria-hidden="true" tabindex="-1"></a>dt_plot <span class="sc">%&gt;%</span> </span>
+<span id="cb7-120"><a href="#cb7-120" aria-hidden="true" tabindex="-1"></a>  <span class="fu">ggplot</span>(<span class="fu">aes</span>(<span class="at">y =</span> <span class="fu">factor</span>(<span class="dv">1</span>), <span class="at">x =</span> prop, <span class="at">fill =</span> type)) <span class="sc">+</span></span>
+<span id="cb7-121"><a href="#cb7-121" aria-hidden="true" tabindex="-1"></a>  <span class="fu">geom_col</span>(<span class="at">show.legend =</span> <span class="cn">FALSE</span>) <span class="sc">+</span></span>
+<span id="cb7-122"><a href="#cb7-122" aria-hidden="true" tabindex="-1"></a>  <span class="fu">geom_text</span>(<span class="fu">aes</span>(<span class="at">label =</span> prop, <span class="at">x =</span> mid, <span class="at">y =</span> <span class="dv">1</span>), <span class="at">fontface =</span> <span class="st">"bold"</span>) <span class="sc">+</span></span>
+<span id="cb7-123"><a href="#cb7-123" aria-hidden="true" tabindex="-1"></a>  <span class="fu">geom_text</span>(<span class="fu">aes</span>(<span class="at">x =</span> mid, <span class="at">y =</span> <span class="fl">1.6</span>, <span class="at">label =</span> type)) <span class="sc">+</span></span>
+<span id="cb7-124"><a href="#cb7-124" aria-hidden="true" tabindex="-1"></a>  <span class="fu">scale_x_continuous</span>(<span class="at">breaks =</span> <span class="fu">c</span>(<span class="dv">0</span>, ddd<span class="sc">$</span>cum_prop)) <span class="sc">+</span></span>
+<span id="cb7-125"><a href="#cb7-125" aria-hidden="true" tabindex="-1"></a>  <span class="fu">coord_radial</span>(<span class="at">expand =</span> <span class="cn">FALSE</span>, <span class="at">inner.radius =</span> <span class="fl">0.4</span>) <span class="sc">+</span></span>
+<span id="cb7-126"><a href="#cb7-126" aria-hidden="true" tabindex="-1"></a>  <span class="fu">theme_void</span>()</span>
+<span id="cb7-127"><a href="#cb7-127" aria-hidden="true" tabindex="-1"></a><span class="in">```</span></span>
 </code><button title="Copy to Clipboard" class="code-copy-button"><i class="bi"></i></button></pre></div>
 </div></div></div></div></div>
 </div> <!-- /content -->

diff --git a/_site/posts/分面图的因子变量排序.html b/_site/posts/分面图的因子变量排序.html
@@ -218,7 +218,7 @@ pre > code.sourceCode > span > a:first-child::before { text-decoration: underlin
 <span id="cb2-14"><a href="#cb2-14" aria-hidden="true" tabindex="-1"></a>  <span class="fu">geom_pointrange</span>(<span class="fu">aes</span>(<span class="at">ymin =</span> <span class="dv">0</span>, <span class="at">ymax =</span> population)) <span class="sc">+</span></span>
 <span id="cb2-15"><a href="#cb2-15" aria-hidden="true" tabindex="-1"></a>  <span class="fu">scale_y_continuous</span>(<span class="at">labels =</span> scales<span class="sc">::</span><span class="fu">label_comma</span>()) <span class="sc">+</span></span>
 <span id="cb2-16"><a href="#cb2-16" aria-hidden="true" tabindex="-1"></a>  <span class="fu">coord_flip</span>()</span></code><button title="Copy to Clipboard" class="code-copy-button"><i class="bi"></i></button></pre></div>
-<div class="cell quarto-layout-panel" data-layout-ncol="2" data-layout-align="center">
+<div class="cell quarto-layout-panel" data-layout-align="center" data-layout-ncol="2">
 <div class="quarto-layout-row">
 <div class="quarto-layout-cell" style="flex-basis: 50.0%;justify-content: center;">
 <div class="quarto-figure quarto-figure-center">
@@ -289,7 +289,7 @@ pre > code.sourceCode > span > a:first-child::before { text-decoration: underlin
 <span id="cb6-5"><a href="#cb6-5" aria-hidden="true" tabindex="-1"></a></span>
 <span id="cb6-6"><a href="#cb6-6" aria-hidden="true" tabindex="-1"></a>dt_bind <span class="ot">&lt;-</span> <span class="fu">bind_rows</span>(dt_a, dt_b)</span>
 <span id="cb6-7"><a href="#cb6-7" aria-hidden="true" tabindex="-1"></a>dt_bind</span></code><button title="Copy to Clipboard" class="code-copy-button"><i class="bi"></i></button></pre></div>
-<div class="cell quarto-layout-panel" data-layout-ncol="2" data-layout-align="center">
+<div class="cell quarto-layout-panel" data-layout-align="center" data-layout-ncol="2">
 <div class="quarto-layout-row">
 <div class="cell-output cell-output-stdout quarto-layout-cell" style="flex-basis: 50.0%;justify-content: center;">
 <pre><code># A tibble: 8 × 2

diff --git a/_site/index.html b/_site/index.html
@@ -208,7 +208,7 @@ window.Quarto = {
 
 <div class="quarto-listing quarto-listing-container-default" id="listing-listing">
 <div class="list quarto-listing-default">
-<div class="quarto-post image-right" data-index="0" data-listing-file-modified-sort="1720169899886" data-listing-reading-time-sort="2" data-listing-word-count-sort="387">
+<div class="quarto-post image-right" data-index="0" data-listing-date-sort="1720108800000" data-listing-file-modified-sort="1720170124837" data-listing-date-modified-sort="NaN" data-listing-reading-time-sort="2" data-listing-word-count-sort="387">
 <div class="thumbnail">
 <p><a href="./posts/甜甜圈图.html" class="no-external"></a></p><a href="./posts/甜甜圈图.html" class="no-external">
 <p class="card-img-top"><img src="posts\甜甜圈图_files\figure-html\fig-对比-1.png"  class="thumbnail-image card-img"/></p>
@@ -226,7 +226,10 @@ window.Quarto = {
 </div>
 </div>
 <div class="metadata">
-<p><a href="./posts/甜甜圈图.html" class="no-external"></a></p><a href="./posts/甜甜圈图.html" class="no-external">
+<a href="./posts/甜甜圈图.html" class="no-external">
+<div class="listing-date">
+Jul 5, 2024
+</div>
 <div class="listing-author">
 Bowen Qin
 </div>
